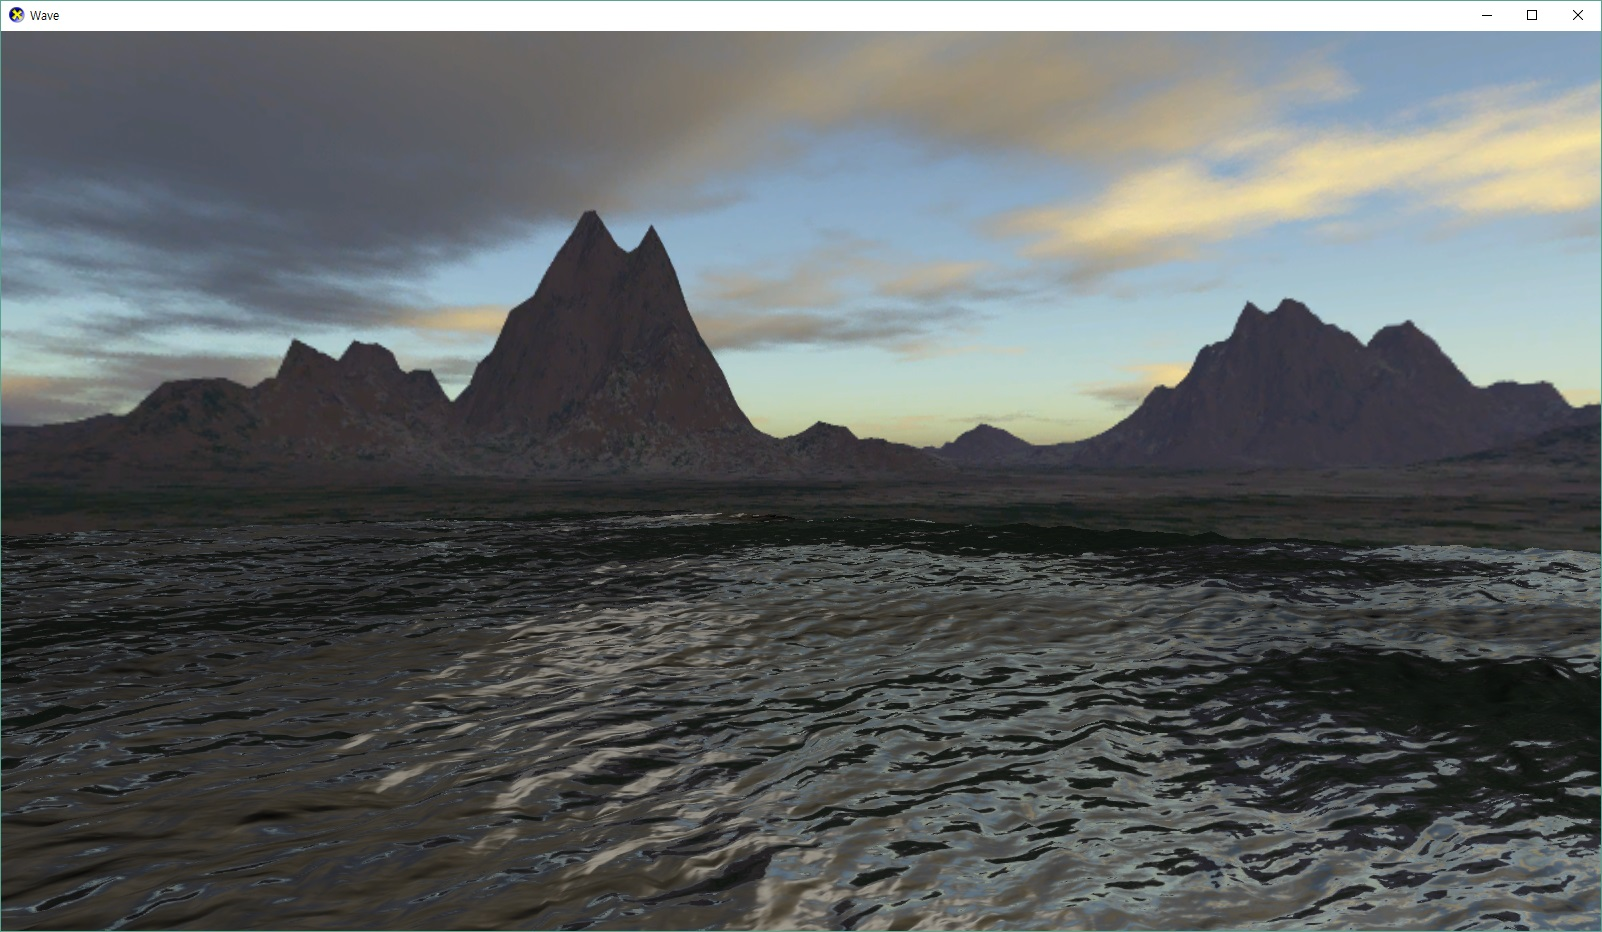
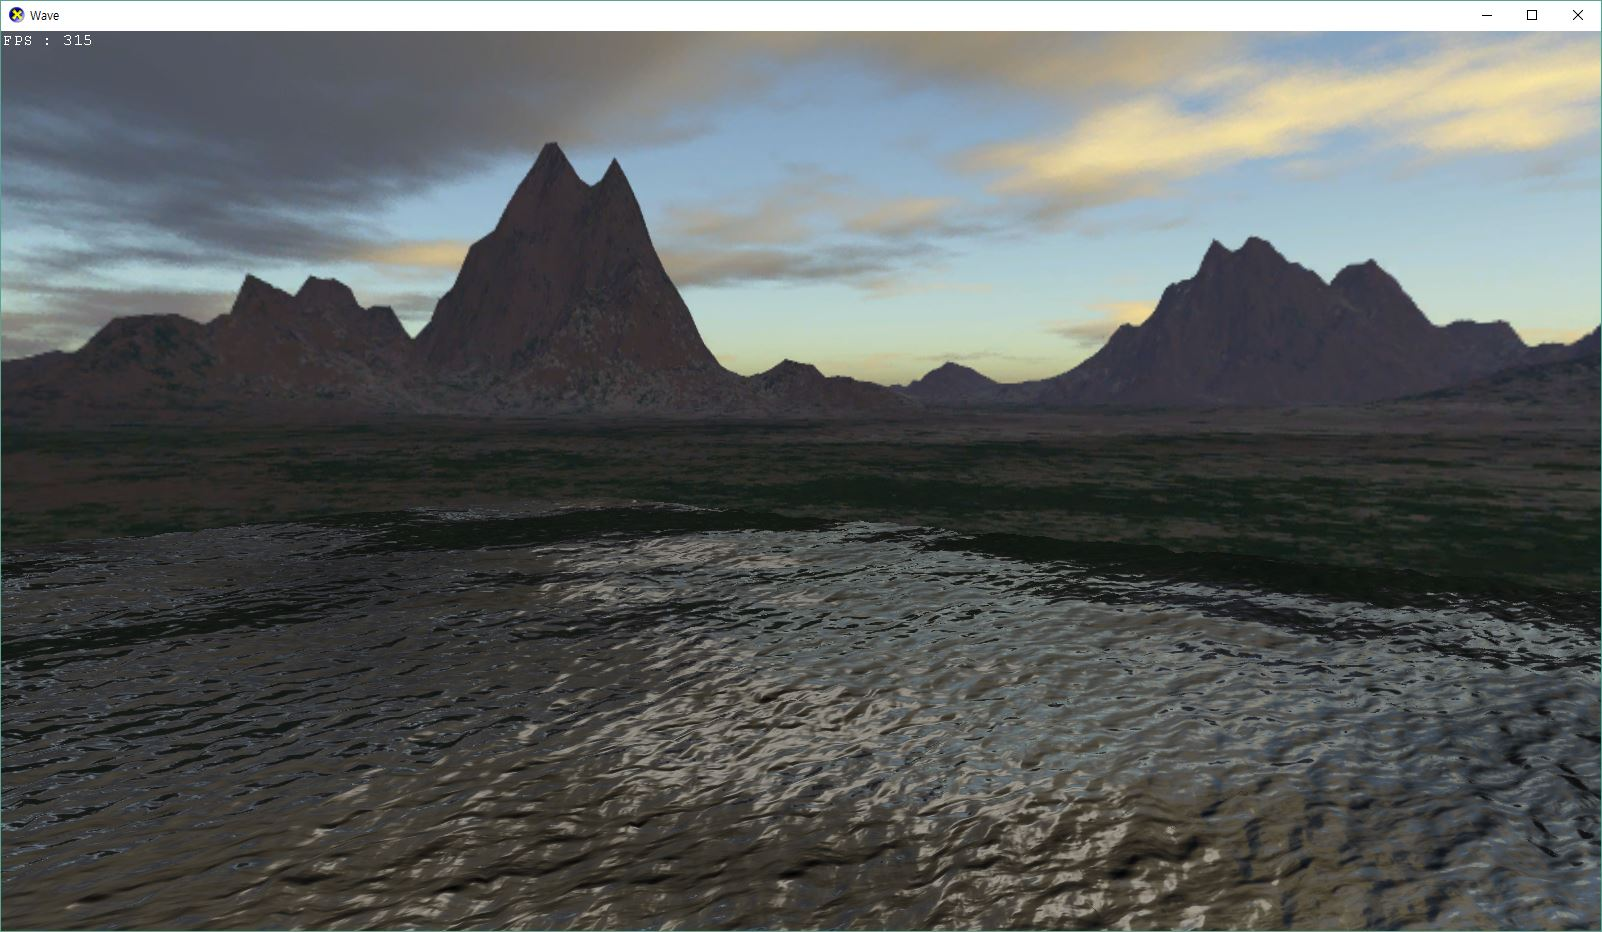
updated

diff --git a/README.md b/README.md
@@ -2,7 +2,7 @@
 
 ## Tessellation 
 - Pixels per edge approach(sphere diameter in clip space). Not LOD by distance. (https://developer.nvidia.com/content/dynamic-hardware-tessellation-basics)
-- Discard faces outside frustum. (working)
+- Frustum culling tessellation(Discard faces outside frustum). 
 
 ## Normal mapping & Displacement
 - Used 2 textures for normal mapping and height displacement.
@@ -22,6 +22,8 @@
 - 2 - switch tessellation camera to real camera.
 - 3 - wireframe drawing mode.
 - 4 - cull counter clockwise drawing mode.
+- 5 - Enable frustum culling.
+- 6 - Disable frustum culling.
 
 ## Etc
 - Need DirectXTK in $(SolutionDir)/../DirectXTK to build & run.
@@ -29,3 +31,5 @@
 ![Image](./wave.jpg)
 
 ![Image](./wave_tessellation.jpg)
+
+![Image](./wave_cull.jpg)
